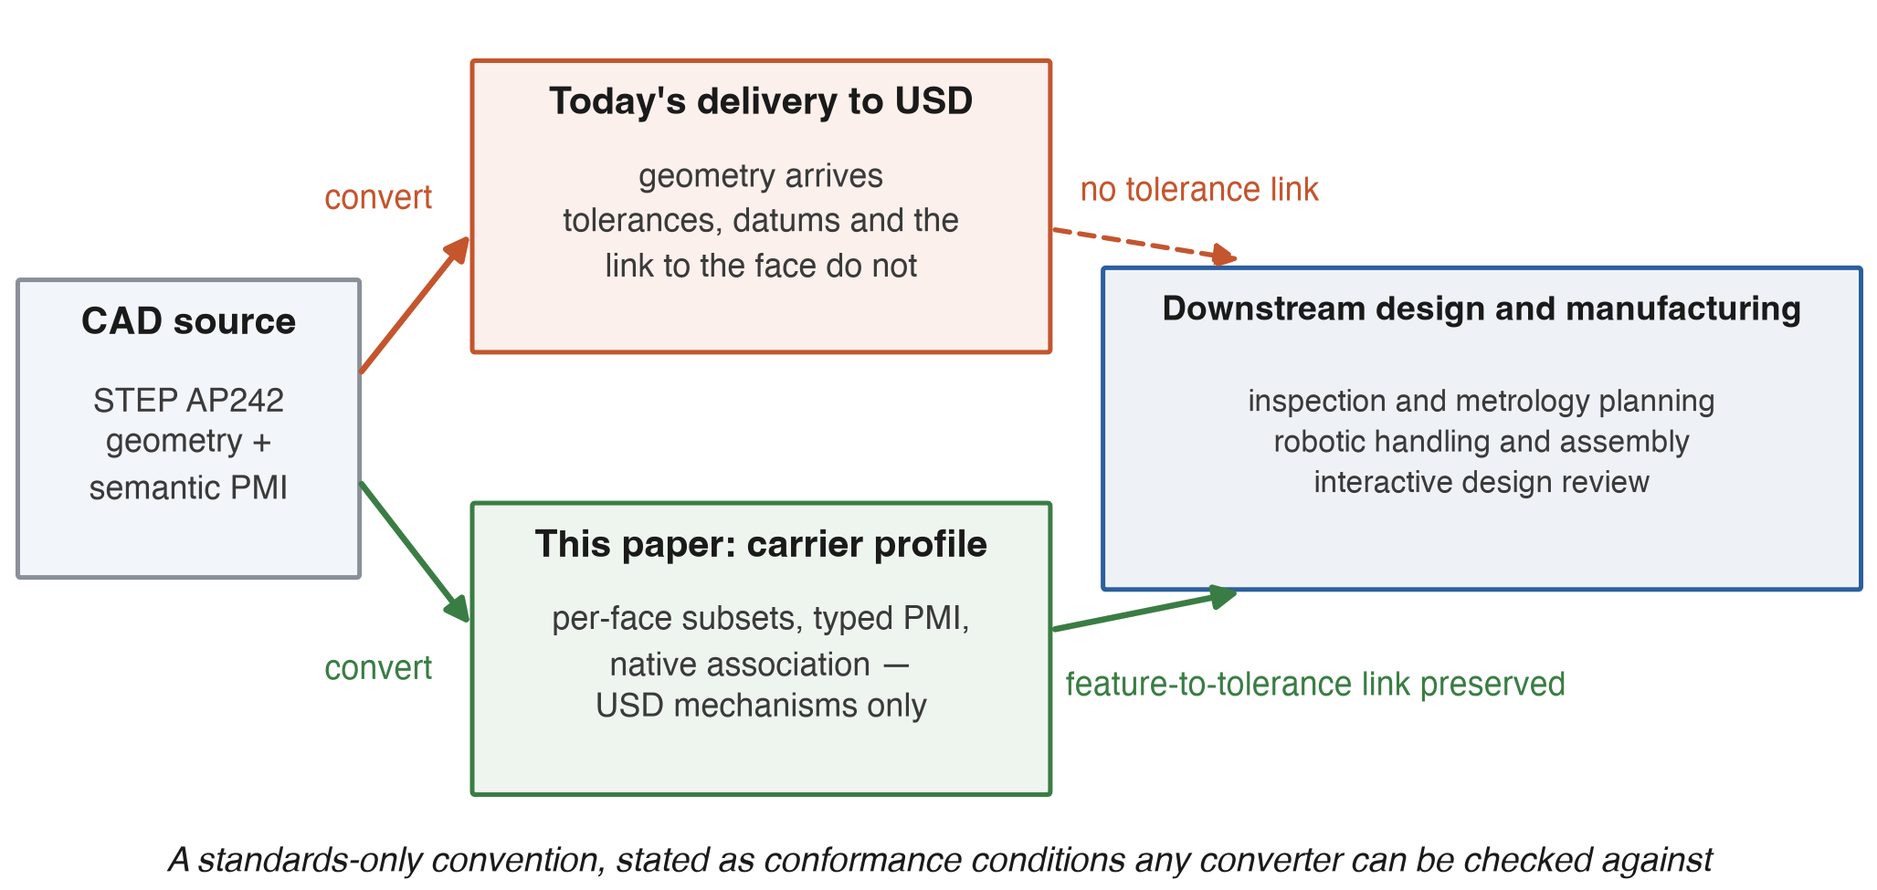
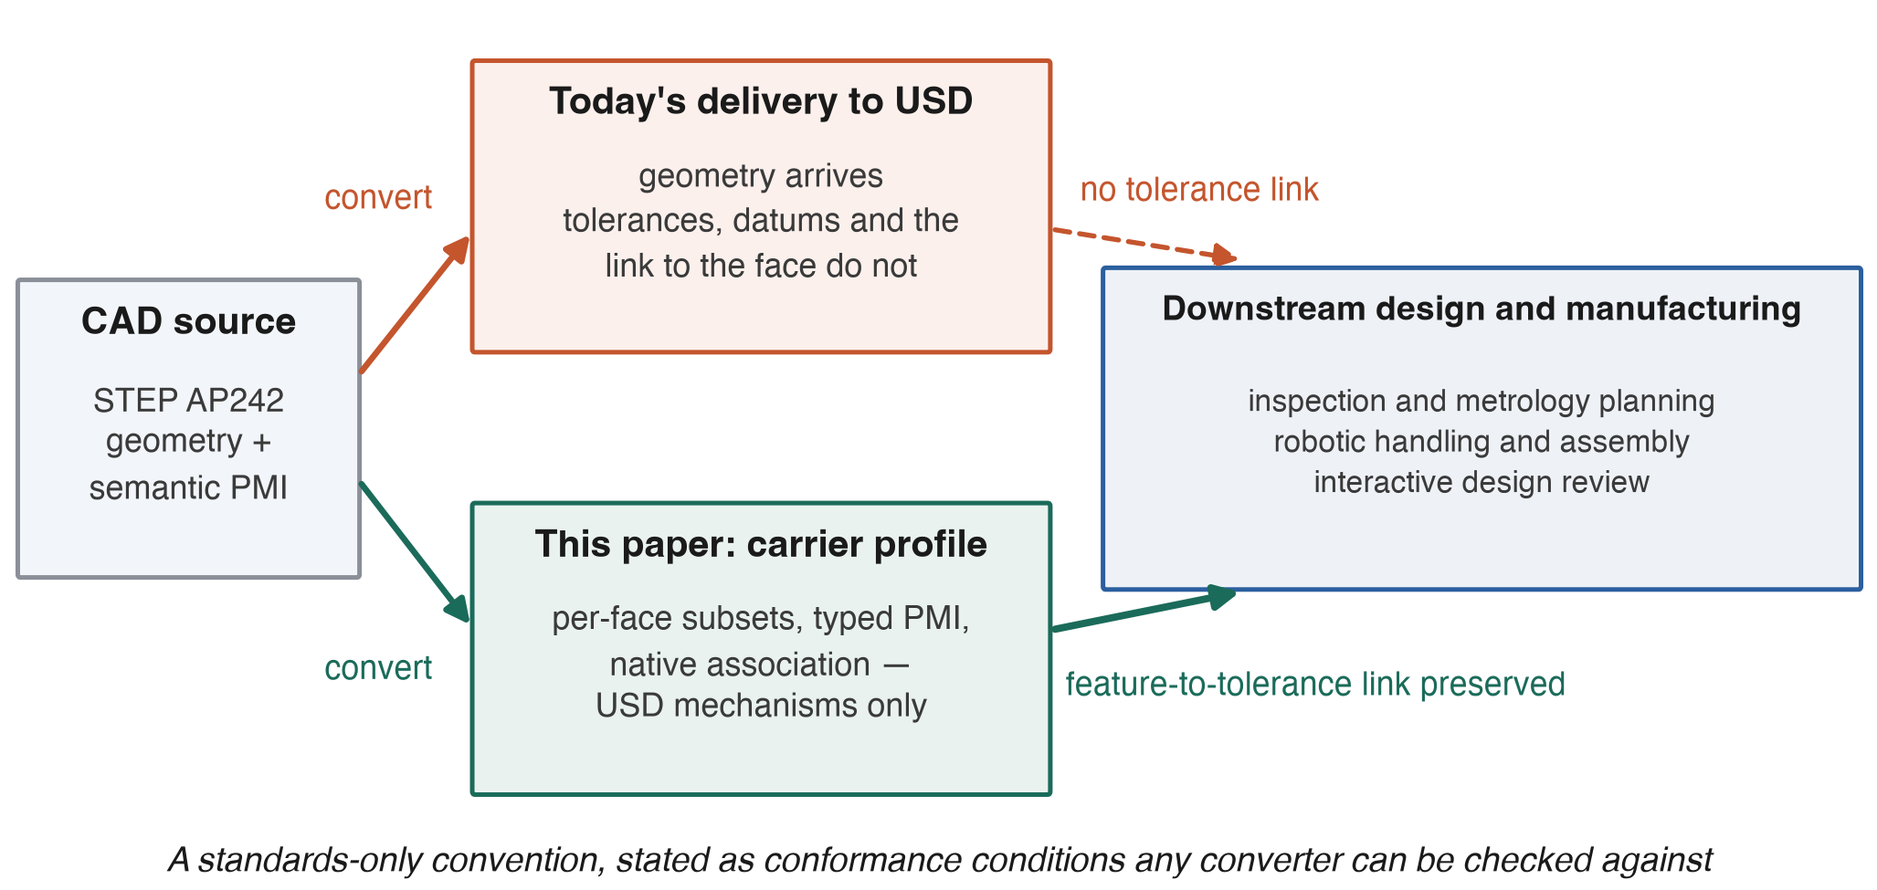
Fig. 7(b) no longer hides the error tails it reports; new impl.* size/cost keys
Fourth and fifth review rounds of the accompanying manuscript, plus an English style
pass. No change to the profile specification (SPEC.md) and no existing result changed:
results/canonical_numbers.json goes 676 -> 681 keys, key-for-key identical on all 676
previously present keys.

Fixed

- Fig. 7(b) was drawn with matplotlib's default boxplot settings, showfliers=False and
  1.5 IQR whiskers. That removed from the plot exactly the values the manuscript's
  Table 7 reports on the facing page: the D2/P3 maximum of 184.1 mm and the C3/W
  maximum of 3.4709 mm both sat far outside the drawn whiskers, which stopped at
  ~2e-4 and ~7e-5 mm. Figure and table therefore disagreed, and they disagreed in the
  direction that flattered this work: the "recoverable geometry, unflaggable error
  tail" result was invisible in the one figure meant to show it. Whiskers now span the
  full range, so the upper whisker is the table's maximum, and p99 is marked so each
  box maps onto the table's columns. The 1e-9 floor applied for the logarithmic axis
  is now disclosed in the caption rather than being silently visible as a whisker.
- Fig. 7(b) also omitted the geometry-only RANSAC baseline D entirely, showing only
  D2. D is the main "what can be recovered without face identity" arm; it is now drawn
  for all three production pipelines.
- Fig. 4 carried two full sentences of explanatory text inside the artwork. The target
[…]

diff --git a/scripts/27_figures_v2.py b/scripts/27_figures_v2.py
@@ -137,7 +137,7 @@ def fig4():
             k = a.get("anchorKind")
             cnt[k if k in cnt else "datum"] += 1
         rows.append((b.replace("nist_", "").replace("_asme1_ap242", ""), cnt))
-    fig, ax = plt.subplots(figsize=(WIDE, 5.3), layout="constrained")
+    fig, ax = plt.subplots(figsize=(WIDE, 5.0), layout="constrained")
     names = [r[0] for r in rows]
     y = np.arange(len(rows))
     # 无障碍：灰度下 green/warm 与 blue/purple 会并到一起，故段也用图案区分（本刊明文要求）
@@ -157,8 +157,8 @@ def fig4():
     ax.set_yticks(y, names, fontsize=FS_BODY)
     ax.invert_yaxis()
     ax.set_xlabel("Top-level semantic PMI annotations (anchoring stratification)")
-    ax.set_title("All 838 annotations carried by W (by construction); production pipelines carry 0.\n"
-                 "Colours and patterns: the empirical anchoring stratification of the sources.", fontsize=FS_TITLE, loc="left")
+    # 🔴 本刊明文：图注写在正文文件里，不得嵌进图片。原来这里嵌了两句完整说明文字，
+    #    与正文图注重复且形同「图内 caption」——删除，说明全部由正文图注承担。
     ax.legend(fontsize=FS_BODY, loc="upper center", bbox_to_anchor=(0.5, -0.11), ncol=2, framealpha=0.95)
     save_all(fig, "fig4_inventory")
     print("fig4 done", int(left.sum()))
@@ -178,6 +178,9 @@ def fig5():
         ax.annotate(key, (x[-1], rows[-1][1][key]), xytext=(6, 0), textcoords="offset points",
                     va="center", color=BLUE, fontsize=FS_BODY)
         ax.scatter([5951], [omni[key]], marker="D", s=26, color=WARM, zorder=5)
+        # 图必须自足：三个菱形分别是哪一个统计量，此前只有图注外的正文才说得清
+        ax.annotate(key, (5951, omni[key]), xytext=(-5, 0), textcoords="offset points",
+                    ha="right", va="center", color=WARM, fontsize=FS_BODY)
     ax.annotate("Omniverse\n(default)", (5951, omni["mean"]), xytext=(0, -26),
                 textcoords="offset points", ha="center", color=WARM, fontsize=FS_BODY)
     ax.set_xscale("log"); ax.set_yscale("log")
@@ -218,7 +221,7 @@ def fig7():
         pl = {"P1": "chainA", "P2": "omni", "W": "proto"}[name]
         return K[f"e4.{pl}.{key}.pct"]
 
-    fig, (a, b) = plt.subplots(1, 2, figsize=(WIDE, 4.1), gridspec_kw={"width_ratios": [1.7, 1]}, layout="constrained")
+    fig, (a, b) = plt.subplots(1, 2, figsize=(WIDE, 4.1), gridspec_kw={"width_ratios": [1.35, 1]}, layout="constrained")
     xpos, xt, xl = 0.0, [], []
     seen = set()
     for block, oracle in ((REF, False), (ASSET, True)):
@@ -232,11 +235,13 @@ def fig7():
                 a.bar(xpos, v, width=0.8, color=colors[name],
                       hatch=HATCH[name], edgecolor="white", linewidth=0.6,
                       label=name if name not in seen else None)
-                if v < 3.0:                     # 近零柱看不见，会被读成「没画」——写出数值
+                if v < 3.0:                     # 近零柱看不见，会被读成「没画」——写出数值＋引导线
                     nz = sum(1 for n2 in names[:names.index(name)] if pct_of(key, n2) < 3.0)
-                    a.annotate(f"{name} {v:g}", (xpos, 0), xytext=(0, 3 + 11 * nz),
-                               textcoords="offset points", ha="center",
-                               fontsize=FS_BODY, color=colors[name])
+                    a.annotate(f"{name} {v:g}%", (xpos, v), xytext=(-3, 3 + 12 * nz),
+                               textcoords="offset points", ha="right", va="bottom",
+                               fontsize=FS_BODY, color="#222",
+                               arrowprops=dict(arrowstyle="-", lw=0.6, color=colors[name],
+                                               shrinkA=0.5, shrinkB=0.5))
                 seen.add(name)
                 xpos += 1
             xt.append((first + xpos - 1) / 2); xl.append(label)
@@ -246,14 +251,14 @@ def fig7():
     a.set_xlabel("A per-vertex · B surface sampling · C nominal axis · C2 self-fit\n"
                  "C3 asset-only · D RANSAC · D2 per-prim  (D and D2 oracle-scored)")
     a.set_xlim(-1.1, xpos - 3.0)
-    a.set_ylim(0, 132)
+    a.set_ylim(0, 124)
     a.set_yticks([0, 20, 40, 60, 80, 100])
     a.axhline(100, color=GRAY, lw=0.5, ls=":")
     a.set_ylabel("Measurable cylinders (%)")
     a.set_title("(a) Measurability by regime (n = 1,866)", fontsize=FS_TITLE, loc="left")
-    a.text((xt[0] + xt[3]) / 2, 108, "reference arms\n(use source-side information)", ha="center",
+    a.text((xt[0] + xt[3]) / 2, 104, "reference arms\n(use source-side information)", ha="center",
            va="bottom", fontsize=FS_BODY, style="italic", color="#444", linespacing=1.25)
-    a.text((xt[4] + xt[6]) / 2, 108, "asset-only\nconsumer", ha="center",
+    a.text((xt[4] + xt[6]) / 2, 104, "asset-only\nconsumer", ha="center",
            va="bottom", fontsize=FS_BODY, style="italic", color="#444", linespacing=1.25)
     a.legend(ncol=4, loc="upper center", bbox_to_anchor=(0.5, -0.22), frameon=False,
              handlelength=1.6, columnspacing=1.4, fontsize=FS_BODY)
@@ -272,15 +277,19 @@ def fig7():
                 out.append(max(r["abs_err"], 1e-9))
         return out
     dists, dl, dc, dh = [], [], [], []
+
+    def add(vals, lab, name):
+        dists.append(vals); dl.append(lab); dc.append(colors[name]); dh.append(HATCH[name])
+
     for pl, name in [("chainA", "P1"), ("omni", "P2")]:
-        dists.append(perhole(glob.glob(f"out/hole/*.{pl}.json"), "B_surface"))
-        dl.append(f"B\n{name}"); dc.append(colors[name]); dh.append(HATCH[name])
-    dists.append(perhole(glob.glob("out/e2_audit/*.hole.json"), "B_surface"))
-    dl.append("B\nP3"); dc.append(colors["P3"]); dh.append(HATCH["P3"])
-    dists.append(perhole(glob.glob("out/hole/*.proto.json"), "B_surface"))
-    dl.append("B\nW"); dc.append(colors["W"]); dh.append(HATCH["W"])
-    dists.append(perhole(glob.glob("out/e9b/*.mayo.json"), "D2_perprim", sub=True))
-    dl.append("D2\nP3"); dc.append(colors["P3"]); dh.append(HATCH["P3"])
+        add(perhole(glob.glob(f"out/hole/*.{pl}.json"), "B_surface"), f"B\n{name}", name)
+    add(perhole(glob.glob("out/e2_audit/*.hole.json"), "B_surface"), "B\nP3", "P3")
+    add(perhole(glob.glob("out/hole/*.proto.json"), "B_surface"), "B\nW", "W")
+    # 🔴 D（几何独立 RANSAC）必须进 (b)：它是「无 face identity 能恢复到什么程度」的主基线，
+    #    只画 D2 会让 §6.4 的差异化论证在图上没有证据。
+    for pl, name in [("chainA", "P1"), ("omni", "P2"), ("mayo", "P3")]:
+        add(perhole(glob.glob(f"out/e9/*.{pl}.json"), "D_ransac", sub=True), f"D\n{name}", name)
+    add(perhole(glob.glob("out/e9b/*.mayo.json"), "D2_perprim", sub=True), "D2\nP3", "P3")
     c3 = []
     for f in glob.glob("out/hole/*.proto.json"):
         d = json.load(open(f))
@@ -288,10 +297,19 @@ def fig7():
             r = h.get("C3_asset_only") or h.get("C2_selfcontained")
             if r and r.get("abs_err") is not None:
                 c3.append(max(r["abs_err"], 1e-9))
-    dists.append(c3); dl.append("C3\nW"); dc.append(colors["W"]); dh.append(HATCH["W"])
-    bp = b.boxplot(dists, tick_labels=dl, showfliers=False, patch_artist=True, widths=0.55)
+    add(c3, "C3\nW", "W")
+    # 🔴 whis=(0,100)：须画到最小/最大值。默认 1.5 IQR + showfliers=False 会把 Table 7 报告的
+    #    尾部（D2/P3 max 184.1 mm、C3/W max 3.4709 mm）整段隐去，图与表互相矛盾。
+    bp = b.boxplot(dists, tick_labels=dl, whis=(0, 100), showfliers=False,
+                   patch_artist=True, widths=0.6)
     for patch, c, hh in zip(bp["boxes"], dc, dh):
         patch.set_facecolor(c); patch.set_alpha(0.55); patch.set_hatch(hh)
+    for i, d in enumerate(dists, 1):        # p99 与 Table 7 的列一一对应
+        b.plot([i], [np.percentile(d, 99)], marker="D", ms=2.4, mfc="#222", mec="#222",
+               ls="none", zorder=6)
+    b.plot([], [], marker="D", ms=2.4, mfc="#222", mec="#222", ls="none", label="p99")
+    b.legend(loc="upper right", frameon=False, fontsize=FS_BODY, handletextpad=0.4,
+             borderpad=0.1, handlelength=1.0)
     b.set_yscale("log"); b.set_ylabel("Absolute radius error (mm)")
     b.set_title("(b) Error distributions", fontsize=FS_TITLE, loc="left")
     print("   [fig7] n per box:", [len(d) for d in dists])

diff --git a/scripts/34_fig6_regen.py b/scripts/34_fig6_regen.py
@@ -9,6 +9,7 @@ import matplotlib
 
 matplotlib.use("Agg")
 import matplotlib.pyplot as plt
+from matplotlib.colors import LinearSegmentedColormap
 import numpy as np
 
 os.chdir(os.path.join(os.path.dirname(__file__), ".."))
@@ -54,14 +55,22 @@ else:
     d = ProximityQuery(conv).on_surface(sub)[1]
     np.savez_compressed(CACHE, sub=sub, d=d)
 
-fig, ax = plt.subplots(figsize=(3.35, 1.95), layout="constrained")
+# 🔴 版式：这是空间图，85 mm 单栏下画幅只有 ~55×20 mm，点密度不可读 → 174 mm 双栏。
+# 🔴 色标：全体偏差的 p90 = 0.11 mm、p99 = 0.23 mm，原来的 vmin/vmax = 0/2 让 98% 的点
+#    落在色标最淡的一端（白底上几乎不可见，对比度远低于本刊 4.5:1）。改为 0–0.25 饱和
+#    （colorbar extend="max"）＋截断 Blues 的浅色端，使最淡的点仍是可见的中蓝。
+CMAP = LinearSegmentedColormap.from_list("Blues_t", plt.get_cmap("Blues")(np.linspace(0.32, 1.0, 256)))
+VMAX = 0.25
+fig, ax = plt.subplots(figsize=(6.85, 2.45), layout="constrained")
 near = d <= 2.0
-ax.scatter(sub[near, 1], sub[near, 2], c=d[near], cmap="Blues", s=1, vmin=0, vmax=2, rasterized=True)
-ax.scatter(sub[~near, 1], sub[~near, 2], color=WARM, s=14, marker="^", rasterized=True,
+ax.scatter(sub[near, 1], sub[near, 2], c=d[near], cmap=CMAP, s=2, vmin=0, vmax=VMAX,
+           rasterized=True)
+ax.scatter(sub[~near, 1], sub[~near, 2], color=WARM, s=16, marker="^", rasterized=True,
            label=f"dev. > 2 mm (n={int((~near).sum())})")
-sm = plt.cm.ScalarMappable(cmap="Blues", norm=plt.Normalize(0, 2))
-cb = fig.colorbar(sm, ax=ax, shrink=1.0, pad=0.03, label="distance to mesh (mm)")
-cb.set_ticks([0, 0.5, 1.0, 1.5, 2.0])
+sm = plt.cm.ScalarMappable(cmap=CMAP, norm=plt.Normalize(0, VMAX))
+cb = fig.colorbar(sm, ax=ax, shrink=0.62, aspect=14, pad=0.02, extend="max",
+                  label="distance to mesh (mm)")
+cb.set_ticks([0, 0.05, 0.10, 0.15, 0.20, 0.25])
 ax.set_xlabel("y (mm)")
 ax.set_ylabel("z (mm)")
 ax.set_aspect("equal")

diff --git a/scripts/33_graphical_abstract.py b/scripts/33_graphical_abstract.py
@@ -16,7 +16,9 @@ os.makedirs("figures", exist_ok=True)
 # 字号：本刊 8–12 pt；GA 还会被缩成 TOC 缩略图，故按双栏满宽 174 mm 作图并把最小字号抬到 8.5 pt
 plt.rcParams.update({"font.size": 9, "figure.dpi": 300, "savefig.bbox": None,
                      "font.family": "Helvetica", "ps.fonttype": 42, "pdf.fonttype": 42})
-BLUE, GRAY, WARM, GREEN = "#2b5f9e", "#8a8f98", "#c4552d", "#3a7d44"
+# 无障碍：GA 的两条路径此前是红/绿——色觉差异下最不安全的一对。绿改为偏青的深绿
+# （与正文 W 的绿同族但离橙更远），并让两条箭头一虚一实，不只靠颜色区分。
+BLUE, GRAY, WARM, GREEN = "#2b5f9e", "#8a8f98", "#c4552d", "#1b6b5a"
 
 
 def box(ax, x, y, w, h, title, sub=None, fc="#eef2f7", ec=BLUE, fs=9.8):
@@ -49,7 +51,7 @@ ax.text(2.02, 3.12, "convert", fontsize=8.5, color=WARM, ha="center")
 
 # 下路：本文
 box(ax, 2.55, 0.22, 3.15, 1.42, "This paper: carrier profile",
-    "per-face subsets, typed PMI,\nnative association —\nUSD mechanisms only", fc="#eef5ef", ec=GREEN)
+    "per-face subsets, typed PMI,\nnative association —\nUSD mechanisms only", fc="#e9f2ef", ec=GREEN)
 arrow(ax, 1.90, 1.78, 2.55, 1.02, color=GREEN)
 ax.text(2.02, 0.78, "convert", fontsize=8.5, color=GREEN, ha="center")
 
@@ -60,7 +62,7 @@ box(ax, 6.02, 1.24, 4.14, 1.57, "Downstream design and manufacturing",
 
 arrow(ax, 5.70, 3.02, 6.80, 2.86, color=WARM, style=(0, (3, 2)), lw=1.3)
 ax.text(5.88, 3.16, "no tolerance link", fontsize=8.5, color=WARM)
-arrow(ax, 5.70, 1.02, 6.80, 1.22, color=GREEN)
+arrow(ax, 5.70, 1.02, 6.80, 1.22, color=GREEN, lw=1.9)
 ax.text(5.80, 0.70, "feature-to-tolerance link preserved", fontsize=8.5, color=GREEN)
 
 # 底部一句话（不含任何结果数字）

diff --git a/scripts/20_aggregate_v2.py b/scripts/20_aggregate_v2.py
@@ -336,6 +336,29 @@ if os.path.exists(_e11p):
     K["e11.u_inch_any"] = _s["unit_models_inch_any"]   # 含 inch 标注的模型数（inch-only ＋ mixed）
     K["e11.u_total"] = _s["unit_models_total"]
 
+# ---- 实现层的规模与代价（§5.4）：逐面 tessellation 保住了面身份，代价是共享边上的顶点被复制。
+#      2026-08-29 第四轮 review：§5.4 原本只有三句、无任何可核对的量，与标题声称的「open
+#      implementation」不相称。这两组数由交付 stage 现算，不手写。
+try:
+    from pxr import Usd as _Usd, UsdGeom as _UG
+    _dups, _sizes = [], []
+    for _f in sorted(glob.glob("out/proto_v2/*.usdc")):
+        _sizes.append(os.path.getsize(_f) / 1048576.0)
+        _st = _Usd.Stage.Open(_f)
+        for _pr in _st.Traverse():
+            if _pr.IsA(_UG.Mesh):
+                _pt = _np.array(_UG.Mesh(_pr).GetPointsAttr().Get())
+                _dups.append(len(_pt) / len(_np.unique(_np.round(_pt, 6), axis=0)))
+                break
+    if _dups:
+        K["impl.vdup_min"] = round(min(_dups), 2)
+        K["impl.vdup_max"] = round(max(_dups), 2)
+        K["impl.vdup_med"] = round(float(_np.median(_dups)), 2)
+        K["impl.stage_mb_min"] = f"{min(_sizes):.2f}"      # 字符串：两端小数位一致，正文才不会出现 0.14–1.6
+        K["impl.stage_mb_max"] = f"{max(_sizes):.2f}"
+except Exception as _e:                      # usd-core 缺席时不阻断聚合
+    print("[20] impl.* skipped:", _e)
+
 json.dump(K, open("out/e1/canonical_numbers.json", "w"), indent=1, ensure_ascii=False)
 
 # ---- 人读版 ----

diff --git a/results/supplementary-material.md b/results/supplementary-material.md
@@ -229,11 +229,11 @@ Asset-side flaggability rule (Section 6.4; `31_flag_rule.py` / `32_flag_rule_p3.
 
 **Unit resolution.** Length values in AP242 are qualified by a unit context, and that context is not uniform across a file. Each measured value reaches the profile through `MEASURE_WITH_UNIT(LENGTH_MEASURE(v), #u)`; `#u` resolves either to `SI_UNIT(<prefix>, .METRE.)` or to `CONVERSION_BASED_UNIT('<name>', #k)`, where `#k` is itself a `LENGTH_MEASURE_WITH_UNIT` giving the factor to a base unit. The parser follows that chain numerically — it does not match on the unit's name — and records, per annotation, the factor to stage units together with the unit name. The writer multiplies value and both bounds by that factor and records the name as `pmi:sourceUnit`; the verbatim `pmi:step` record retains the unqualified source figure.
 
-This is resolved **per annotation, not per file**. Over the 16 models the resolved units are millimetre only on 6 models (`ctc_01`, `ctc_02`, `ctc_04`, `ftc_10`, `ftc_11`, `stc_10`), inch only on 8 (`ctc_03`, `ctc_05`, `ftc_06`, `ftc_07`, `ftc_08`, `stc_06`, `stc_07`, `stc_09`), and **both units within a single part on 2** (`nist_ftc_09_asme1_ap242-e1`, 22 inch and 31 millimetre; `nist_stc_08_asme1_ap242-e3`, 36 inch and 1 millimetre). A per-file scale factor — for instance one inferred from the geometry — cannot be correct for those two. It is also silently wrong by 25.4× on three further models (`ctc_03`, `ftc_06`, `stc_06`) whose coordinates are millimetre-scaled while every one of their annotations is inch-denominated. The two properties are independent: only 5 of the 16 models are inch-scaled geometrically (`ctc_05`, `ftc_07`, `ftc_08`, `stc_07`, `stc_09`), whereas 10 carry at least one inch-denominated annotation — the inch-scaled set is a strict subset of the inch-denominated one, and five models are inch-denominated without being inch-scaled.
+This is resolved **per annotation, not per file**. Over the 16 models the resolved units are millimeter only on 6 models (`ctc_01`, `ctc_02`, `ctc_04`, `ftc_10`, `ftc_11`, `stc_10`), inch only on 8 (`ctc_03`, `ctc_05`, `ftc_06`, `ftc_07`, `ftc_08`, `stc_06`, `stc_07`, `stc_09`), and **both units within a single part on 2** (`nist_ftc_09_asme1_ap242-e1`, 22 inch and 31 millimeter; `nist_stc_08_asme1_ap242-e3`, 36 inch and 1 millimeter). A per-file scale factor — for instance one inferred from the geometry — cannot be correct for those two. It is also silently wrong by 25.4× on three further models (`ctc_03`, `ftc_06`, `stc_06`) whose coordinates are millimeter-scaled while every one of their annotations is inch-denominated. The two properties are independent: only 5 of the 16 models are inch-scaled geometrically (`ctc_05`, `ftc_07`, `ftc_08`, `stc_07`, `stc_09`), whereas 10 carry at least one inch-denominated annotation — the inch-scaled set is a strict subset of the inch-denominated one, and five models are inch-denominated without being inch-scaled.
 
 The audit does not take the factor from the writer's output. It re-reads it from the parsed source context and additionally checks that the unit name the stage declares agrees with the source; a stage whose values were converted with the wrong factor, or whose declared unit name disagrees, fails CF6. ⚠ The limit of that check must be stated: writer and audit read the **same** parsed graph, so CF6 detects a writer-side arithmetic or naming error, not a misreading of the STEP file by the shared parser. The verbatim `pmi:step` record is retained precisely so a reader can audit the parse itself.
 
-A length whose unit the chain cannot resolve is **not** silently treated as millimetres. The parser marks it, the writer authors `pmi:sourceUnit = UNRESOLVED`, and CF4 fails on it — converting a failed parse into a visible verdict rather than a passing one. The resolver covers `SI_UNIT` with a metre base and the usual decimal prefixes, and `CONVERSION_BASED_UNIT` chains that reduce numerically to such a base (depth ≤ 4); anything outside that is marked rather than assumed. No annotation in the NIST set is so marked.
+A length whose unit the chain cannot resolve is **not** silently treated as millimeters. The parser marks it, the writer authors `pmi:sourceUnit = UNRESOLVED`, and CF4 fails on it — converting a failed parse into a visible verdict rather than a passing one. The resolver covers `SI_UNIT` with a metre base and the usual decimal prefixes, and `CONVERSION_BASED_UNIT` chains that reduce numerically to such a base (depth ≤ 4); anything outside that is marked rather than assumed. No annotation in the NIST set is so marked.
 
 **Decision-closure demonstration (Section 6.4).** Objects: annotation groups — one `DIMENSIONAL_SIZE` with a two-sided band, together with the cylindrical faces it reaches through `pmi:appliesTo` that carry an asset-only fitted radius (regime C3). Size semantics are read from `pmi:dimName`: `diameter` compares against twice the fitted radius, `radius` against the fitted radius; any other name is excluded rather than coerced. Verdict: `value + lowerBound ≤ measured ≤ value + upperBound`, with a declared numerical tie tolerance of 1e-05 mm — an excursion below that magnitude is numerical, not physical, and is counted as at-limit. Every input to the verdict is read from the stage; the STEP file is not consulted.
 
@@ -252,7 +252,7 @@ Funnel (why the denominator is what it is):
 
 Result: **119 of 128 groups (92.97%) close cleanly**; at face level 585/615 (95.12%) inside band, of which 12 at-limit. The 9 groups that do not close are attributable as: source unit inconsistency 1 (4 faces); one annotation spanning faces of different size 5 (18 faces); tessellation 3 (8 faces).
 
-⭐ **The source unit inconsistency, in full.** `nist_ftc_09` annotation `#9251` is `DIMENSIONAL_SIZE(#9230,'diameter')`; its value entity is `#9252 = (… MEASURE_WITH_UNIT(LENGTH_MEASURE(8.000000), #8506) …)` with bounds `±0.200` bound to the same unit, and `#8506 = (CONVERSION_BASED_UNIT('INCH', #8505) …)`, `#8505 = LENGTH_MEASURE_WITH_UNIT(LENGTH_MEASURE(25.4), #12)`. The unit chain resolves numerically and unambiguously to inch, so the profile carries 203.2 mm. The four faces the annotation reaches measure 8.001 mm and the part's coordinates span about 190 mm, so the stated feature cannot exist on it; read as millimetres the callout fits exactly. The model's other 21 inch-tagged annotations (22 carry an inch-resolved unit in total, `#9251` among them) convert correctly (for example `#8504`, 0.234 in → 5.9436 mm, matching its faces). We therefore report this as a defect in the source model, detected from the delivered scene alone.
+⭐ **The source unit inconsistency, in full.** `nist_ftc_09` annotation `#9251` is `DIMENSIONAL_SIZE(#9230,'diameter')`; its value entity is `#9252 = (… MEASURE_WITH_UNIT(LENGTH_MEASURE(8.000000), #8506) …)` with bounds `±0.200` bound to the same unit, and `#8506 = (CONVERSION_BASED_UNIT('INCH', #8505) …)`, `#8505 = LENGTH_MEASURE_WITH_UNIT(LENGTH_MEASURE(25.4), #12)`. The unit chain resolves numerically and unambiguously to inch, so the profile carries 203.2 mm. The four faces the annotation reaches measure 8.001 mm and the part's coordinates span about 190 mm, so the stated feature cannot exist on it; read as millimeters the callout fits exactly. The model's other 21 inch-tagged annotations (22 carry an inch-resolved unit in total, `#9251` among them) convert correctly (for example `#8504`, 0.234 in → 5.9436 mm, matching its faces). We therefore report this as a defect in the source model, detected from the delivered scene alone.
 
 Per-model closure (annotation groups):
 

diff --git a/results/calculation-results.md b/results/calculation-results.md
@@ -678,3 +678,8 @@
 - `e9b.omni.p99_err` = 9.9e-07
 - `e9b.omni.pct` = 0.4
 - `e9b.omni.total` = 1866
+- `impl.stage_mb_max` = 1.60
+- `impl.stage_mb_min` = 0.14
+- `impl.vdup_max` = 2.04
+- `impl.vdup_med` = 1.41
+- `impl.vdup_min` = 1.11
